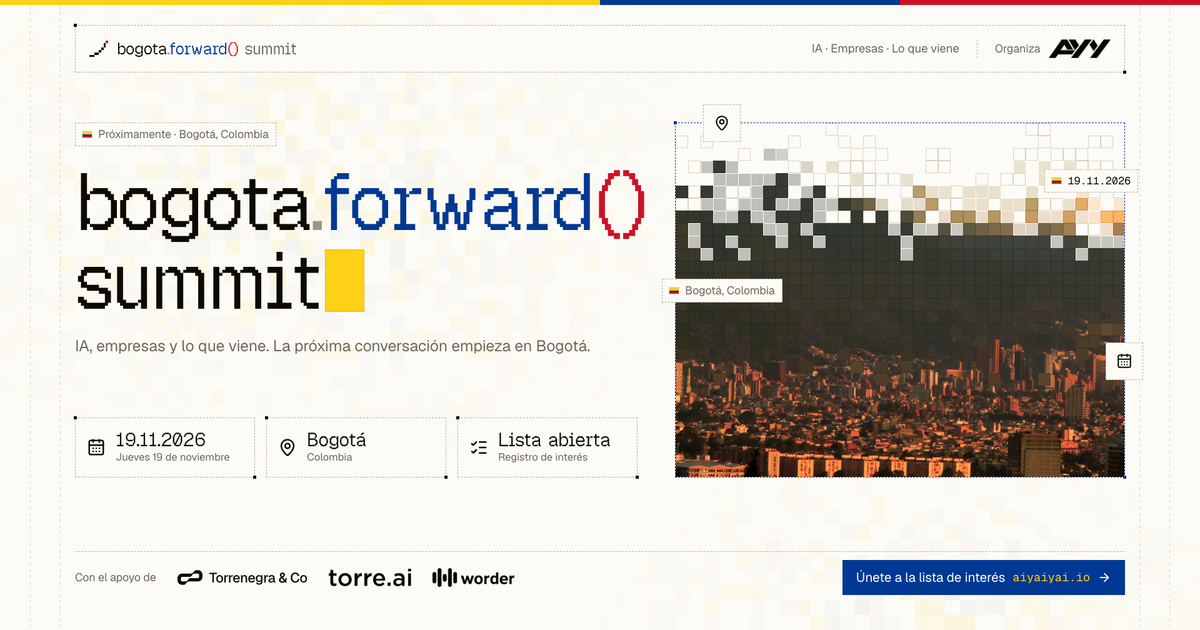
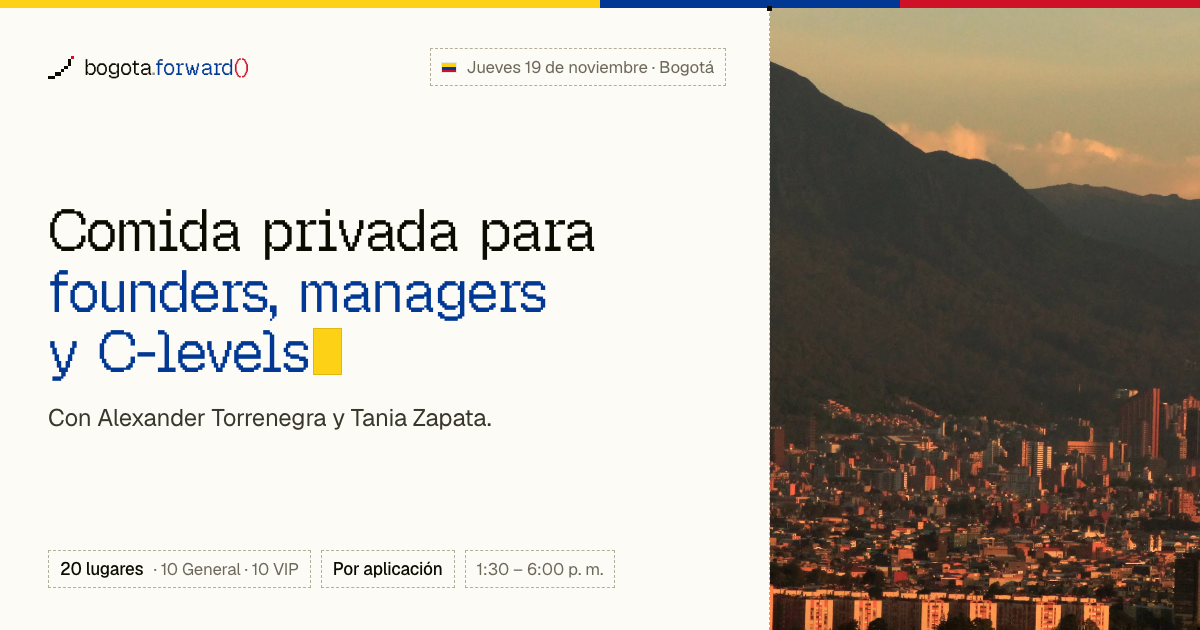
Adapt /partners, metadata and the Open Graph image to the private lunch
/partners offers a seat at the table instead of a speaker slot; the
"speaker" partner type keeps its id in the database but is labelled
"Un lugar en la mesa". Titles, descriptions and OG text on both pages
describe the lunch; the site name and logo lockup drop the word
"summit". The OG image is regenerated in the site's own language
(paper, pixel type, flag stripe, Bogotá photo) with headless Chrome,
since Geist Pixel only ships as WOFF2 and Satori cannot read it.

diff --git a/src/app/partners.tsx b/src/app/partners.tsx
@@ -14,13 +14,13 @@ const external = { target: "_blank", rel: "noopener noreferrer" } as const;
 const offer = [
   {
     art: mic,
-    title: "Trae a un speaker",
-    body: "Una sesión en la agenda del summit, con alguien de tu equipo o un invitado que traigamos juntos.",
+    title: "Un lugar en la mesa",
+    body: "Alguien de tu equipo come con los 20 founders, managers y C-levels, y con Alexander y Tania.",
   },
   {
     art: flag,
     title: "Tu marca en todo lo que hacemos",
-    body: "En el sitio del summit, las promos, los videos, el newsletter y el día del evento.",
+    body: "En el sitio, las promos, los videos, el newsletter y el día de la comida.",
   },
   {
     art: signal,
@@ -72,9 +72,9 @@ export function Partners({ standalone = false }: { standalone?: boolean }) {
             </>
           }
         >
-          Buscamos pocos aliados y les proponemos algo concreto: un speaker en
-          la agenda, tu marca en el summit y en todo nuestro contenido, y una
-          audiencia que ya nos sigue.
+          Una comida privada de 20 lugares con Alexander Torrenegra y Tania
+          Zapata. Pocos aliados, con algo concreto: un lugar en la mesa, tu
+          marca en todo lo que hacemos y una audiencia que ya nos sigue.
         </SectionHeading>
 
         <ul className="partners-offer">
@@ -173,7 +173,8 @@ export function Partners({ standalone = false }: { standalone?: boolean }) {
               </li>
               <li>
                 <strong>Hablamos.</strong> Te respondemos en pocos días y armamos
-                una propuesta a la medida: speaker, presencia de marca o las dos.
+                una propuesta a la medida: un lugar en la mesa, presencia de
+                marca o las dos.
               </li>
               <li>
                 <strong>Lo cerramos juntos.</strong> Pocos aliados por edición,

diff --git a/src/app/partners/page.tsx b/src/app/partners/page.tsx
@@ -10,12 +10,12 @@ export const runtime = "nodejs";
 
 const OG_IMAGE = "/images/colombia-summit/opengraph.png";
 const description =
-  "Propuesta para aliados y sponsors de bogota.forward() summit: un speaker en la agenda, tu marca en todo lo que hacemos y el alcance de nuestros canales. Bogotá, 19 de noviembre de 2026.";
+  "Propuesta para aliados y sponsors de la comida privada con Alexander Torrenegra y Tania Zapata: un lugar en la mesa, tu marca en todo lo que hacemos y +640K seguidores. Bogotá, 19 de noviembre de 2026.";
 
 export const metadata: Metadata = {
   metadataBase: new URL(siteUrl),
   robots: { index: isPublicSite, follow: isPublicSite },
-  title: "Aliados y sponsors | bogota.forward() summit",
+  title: "Aliados y sponsors | bogota.forward()",
   description,
   alternates: { canonical: "/partners" },
   openGraph: {
@@ -23,14 +23,14 @@ export const metadata: Metadata = {
     locale: "es_CO",
     url: "/partners",
     siteName: colombiaSummit.name,
-    title: "Aliados y sponsors · bogota.forward() summit",
+    title: "Aliados y sponsors · bogota.forward()",
     description,
     images: [
       {
         url: OG_IMAGE,
         width: 1200,
         height: 630,
-        alt: "bogota.forward() summit. Bogotá, 19 de noviembre de 2026. Organiza AIYaiYai.",
+        alt: "Comida privada para founders, managers y C-levels con Alexander Torrenegra y Tania Zapata. Bogotá, 19 de noviembre de 2026.",
       },
     ],
   },

diff --git a/src/app/site-chrome.tsx b/src/app/site-chrome.tsx
@@ -20,7 +20,7 @@ export function SiteNav({ home = "", current }: { home?: string; current?: "part
   return (
     <header className="lp-nav">
       <div className="lp-nav-inner">
-        <a href={home || "#top"} aria-label="bogota.forward() summit, inicio">
+        <a href={home || "#top"} aria-label="bogota.forward(), inicio">
           <LogoMark />
         </a>
         <nav className="lp-nav-links" aria-label="Secciones">
@@ -78,7 +78,7 @@ export function SiteFooter({ home = "" }: { home?: string }) {
           </nav>
         </div>
         <div className="lp-footer-base">
-          <p>© 2026 bogota.forward() summit · Bogotá, Colombia</p>
+          <p>© 2026 bogota.forward() · Bogotá, Colombia</p>
           <p>
             Fotos:{" "}
             <a

diff --git a/src/app/partner-form.tsx b/src/app/partner-form.tsx
@@ -55,7 +55,7 @@ export function PartnerForm() {
       action={action}
       onReset={(event) => event.preventDefault()}
       className="lp-form"
-      aria-label="Propuesta de alianza para bogota.forward() summit"
+      aria-label="Propuesta de alianza para bogota.forward()"
       aria-busy={pending}
     >
       <fieldset disabled={pending}>
@@ -149,7 +149,7 @@ export function PartnerForm() {
 
         <div className="lp-field">
           <label htmlFor="partner-goals">
-            ¿Qué te gustaría lograr con el summit? <span>Opcional</span>
+            ¿Qué te gustaría lograr con la alianza? <span>Opcional</span>
           </label>
           <textarea
             id="partner-goals"

diff --git a/src/lib/summit-partners.ts b/src/lib/summit-partners.ts
@@ -15,12 +15,13 @@ export const partnerTypes = [
     id: "sponsor",
     name: "Sponsor aliado",
     description:
-      "Tu marca en el summit y en todo lo que hacemos, con una sesión para un speaker.",
+      "Tu marca en la comida y en todo lo que hacemos, con un lugar en la mesa.",
   },
   {
+    // Kept as "speaker" in the database; the lunch has no stage, so it is a seat.
     id: "speaker",
-    name: "Speaker o contenido",
-    description: "Una sesión en la agenda con alguien de tu equipo o un invitado.",
+    name: "Un lugar en la mesa",
+    description: "Alguien de tu equipo en la comida, con los anfitriones y el grupo.",
   },
   {
     id: "media",

diff --git a/src/app/page.tsx b/src/app/page.tsx
@@ -51,7 +51,7 @@ export const metadata: Metadata = {
         url: OG_IMAGE,
         width: 1200,
         height: 630,
-        alt: "bogota.forward() summit. Bogotá, 19 de noviembre de 2026. Organiza AIYaiYai. Sponsors: Torrenegra & Co, Torre.ai y Worder.",
+        alt: "Comida privada para founders, managers y C-levels con Alexander Torrenegra y Tania Zapata. Bogotá, 19 de noviembre de 2026. 20 lugares por aplicación.",
       },
     ],
   },

diff --git a/src/components/ui.tsx b/src/components/ui.tsx
@@ -179,7 +179,7 @@ export function LogoMark({ word = true }: { word?: boolean }) {
       <PixelArt rows={MARK} size={24} />
       {word && (
         <span className="ds-logo-word">
-          <CodeName /> <span className="ds-logo-kind">summit</span>
+          <CodeName />
         </span>
       )}
     </span>

diff --git a/src/lib/colombia-summit.ts b/src/lib/colombia-summit.ts
@@ -1,7 +1,8 @@
 import { z } from "zod";
 
 export const colombiaSummit = {
-  name: "bogota.forward() summit",
+  // Shown as the Open Graph site name and in the Event schema.
+  name: "bogota.forward()",
   path: "/",
   date: "2026-11-19",
   // The private lunch: arrival 1:30 p. m., happy hour from 5:30 p. m.
